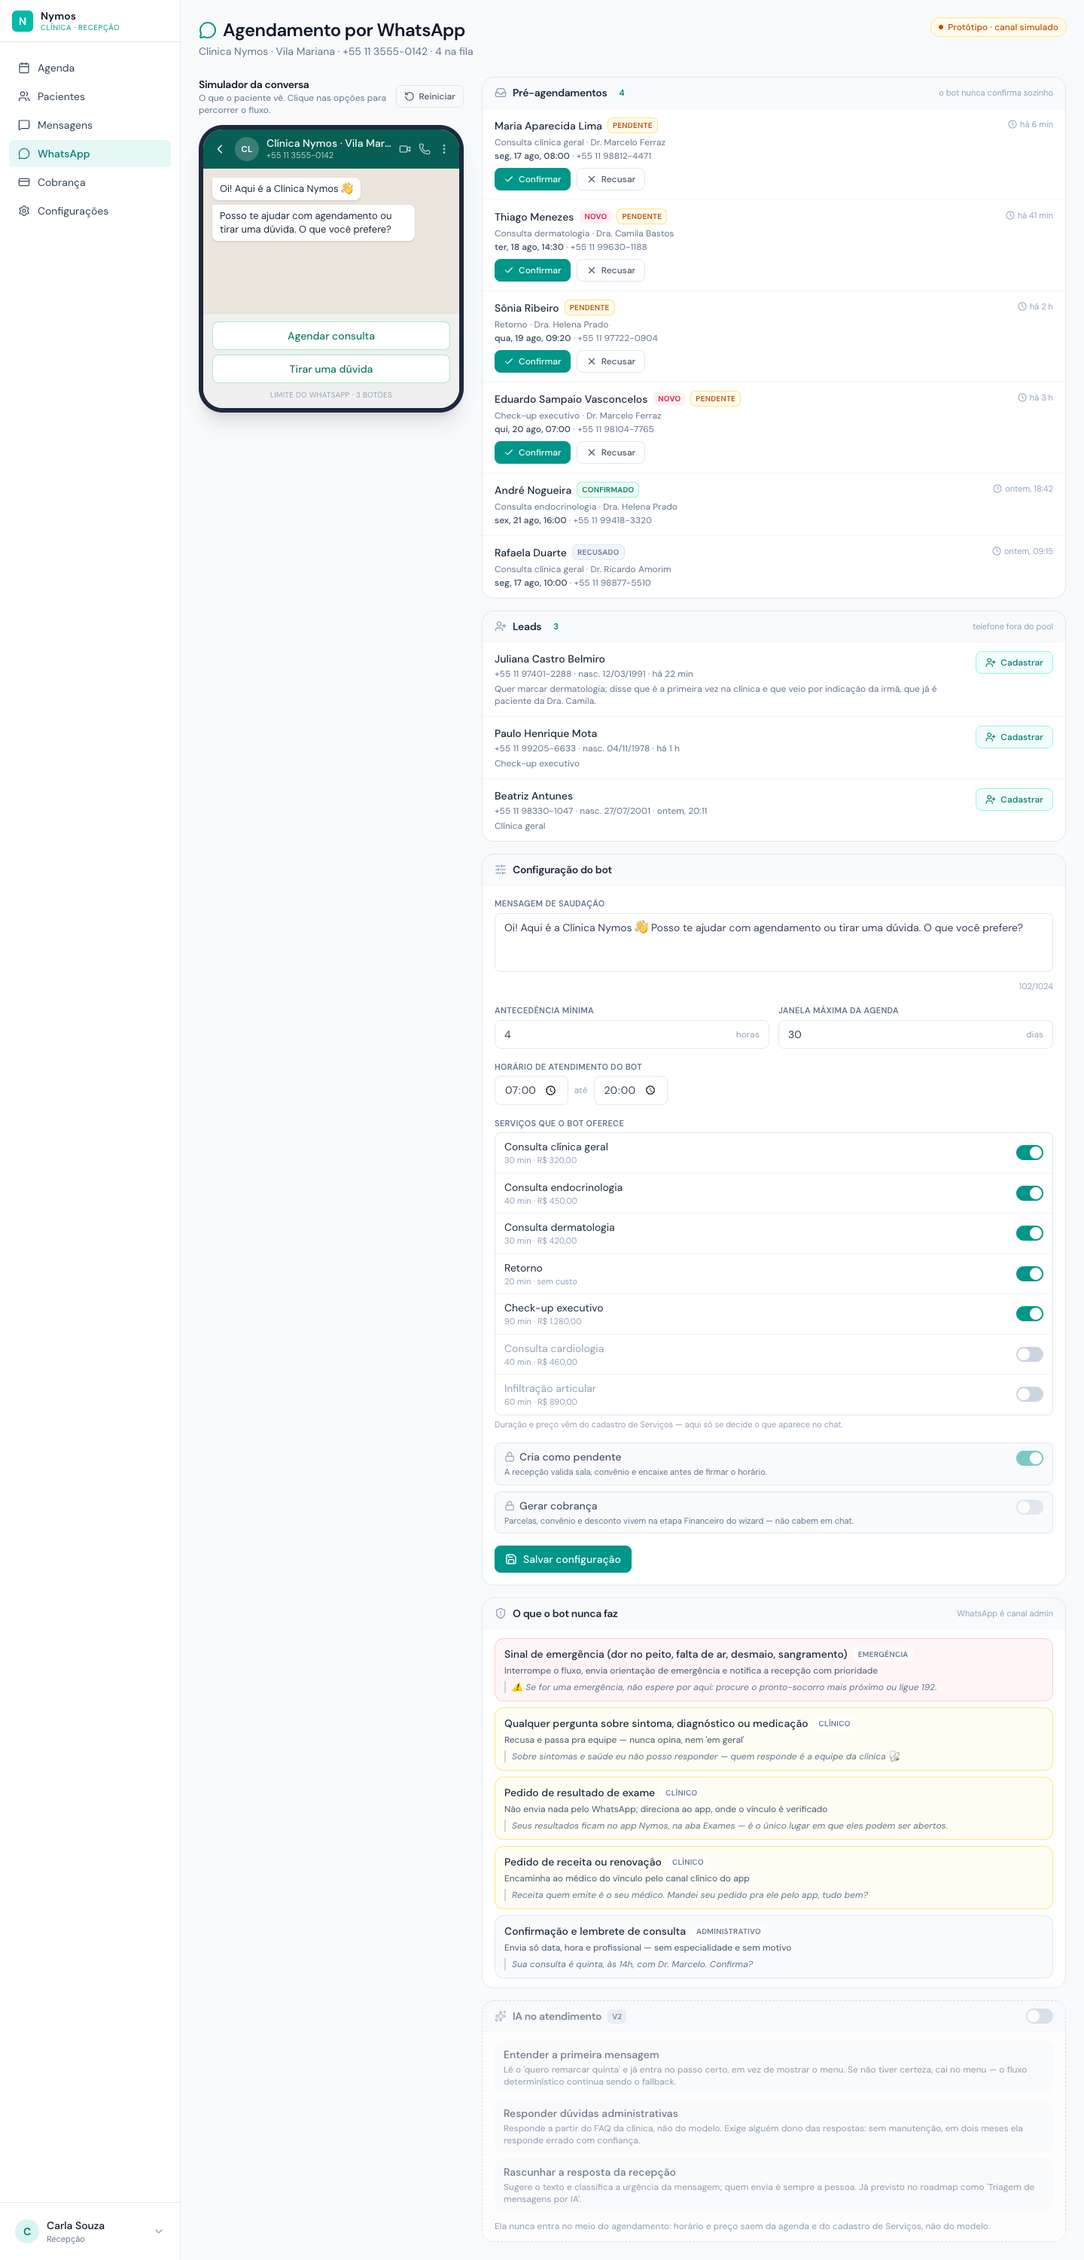
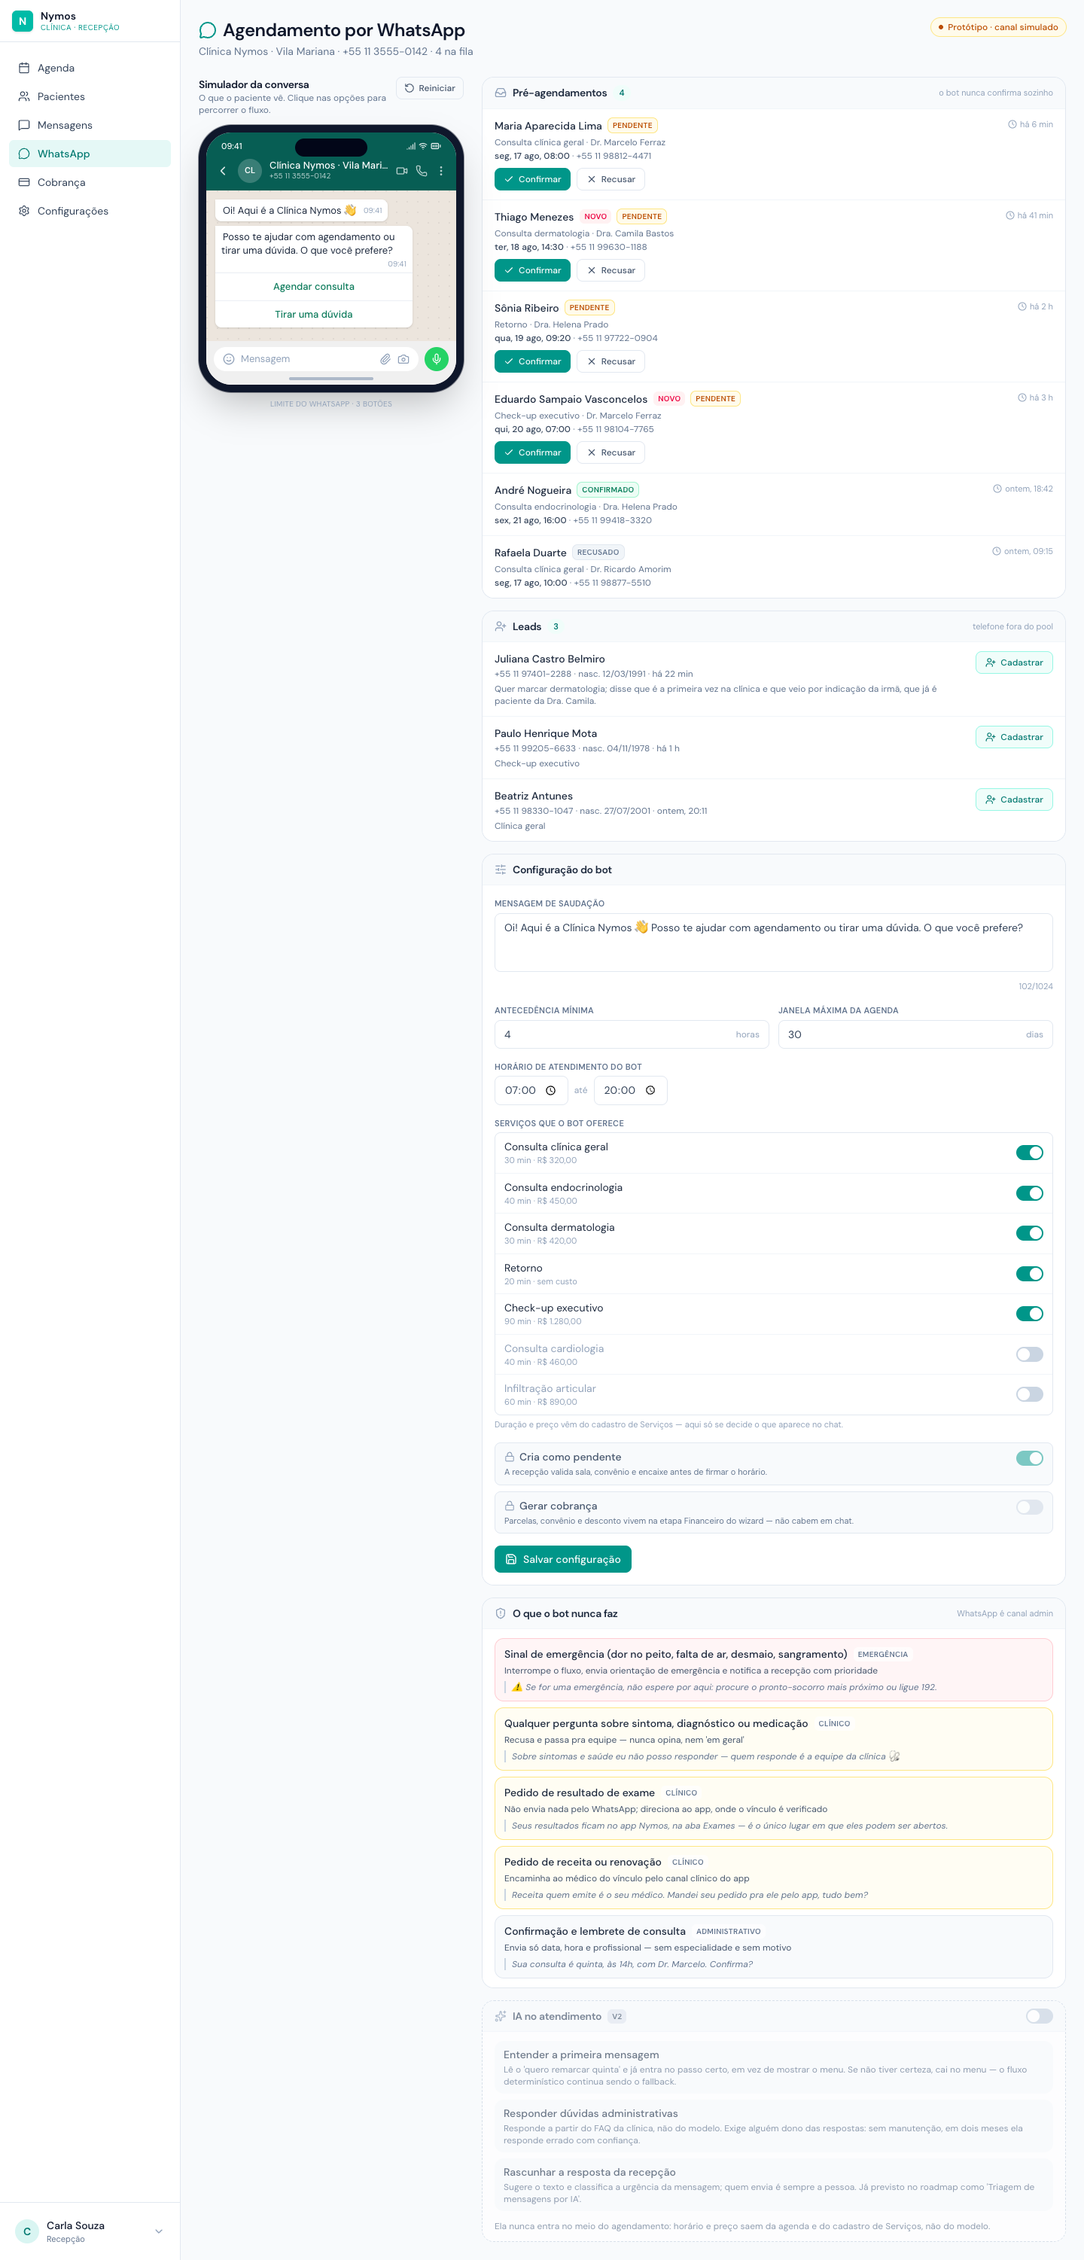
feat(clinic/whatsapp): moldura de celular de verdade e opções coladas na mensagem
O simulador parecia um mockup de chat, não um WhatsApp. Agora tem status bar do
sistema, ilha dinâmica, papel de parede pontilhado, barra de digitar (inerte de
propósito — quem responde ali são os botões) e home indicator.

**As opções deixam de flutuar e passam a ser parte da mensagem.** No WhatsApp o
botão de resposta vem colado embaixo da bolha, com divisória fina e a mesma
largura — não solto no rodapé da conversa. É a diferença entre "tem uns botões na
tela" e "o bot mandou uma mensagem interativa", que é justamente o que a spec
descreve. Bolha e bloco compartilham `w-[85%]` para casarem a borda.

O piso do corpo do chat cai de 12rem para 8rem: com duas bolhas no primeiro passo
sobravam **84px** de espaço morto, e é esse estado que vai para o screenshot.
Agora sobram 6px (medido no DOM, não no olho).

Horário nas bolhas e ✓✓ azul. O ✓✓ vai **só** no que o paciente envia — o que
chega do bot é mensagem recebida e não tem marca de entrega; eu tinha posto nos
dois. A hora vem da posição na conversa (`horaDaBolha`), começando em 09:41, e não
de `new Date()`: com relógio real cada recaptura geraria um screenshot diferente.

A nota "limite do WhatsApp · 3 botões" sai de dentro do aparelho e vira legenda
embaixo — é anotação do Design OS, não chrome do produto. Pelo mesmo motivo o
passo final não mostra mais "Conversa encerrada · reiniciar" dentro da tela: a
conversa só termina, e Reiniciar é controle da ferramenta, no topo.
[…]

Changed region(s): [[0.1875, 0.031, 0.4375, 0.1859]]

diff --git a/src/sections-clinic/agendamento-whatsapp/components/ChatSimulador.tsx b/src/sections-clinic/agendamento-whatsapp/components/ChatSimulador.tsx
@@ -1,5 +1,20 @@
 import { useEffect, useRef, useState } from 'react'
-import { ChevronLeft, List, MoreVertical, Phone, RotateCcw, Video } from 'lucide-react'
+import {
+  BatteryFull,
+  Camera,
+  CheckCheck,
+  ChevronLeft,
+  List,
+  Mic,
+  MoreVertical,
+  Paperclip,
+  Phone,
+  RotateCcw,
+  Signal,
+  Smile,
+  Video,
+  Wifi,
+} from 'lucide-react'
 import type { OpcaoPasso, Passo } from '@/../product-clinic/sections/agendamento-whatsapp/types'
 import { type Bolha, fragmentosNegrito } from './helpers'
 
@@ -20,13 +35,17 @@ export function ChatSimulador({ clinica, telefone, bolhas, passo, onEscolher, on
   const listaAberta = abertaEm !== null && abertaEm === passo?.id
   const fimRef = useRef<HTMLDivElement>(null)
 
+  // Passo final não tem menu: a conversa simplesmente termina, como no WhatsApp. Reiniciar é
+  // controle do Design OS e vive fora do aparelho.
+  const temMenu = !!passo && passo.tipo !== 'final' && passo.opcoes.length > 0
+
   useEffect(() => {
     fimRef.current?.scrollIntoView({ behavior: 'smooth', block: 'end' })
   }, [passo?.id, bolhas.length])
 
   return (
     <div className="lg:sticky lg:top-6">
-      <div className="mb-3 flex items-center justify-between gap-2">
+      <div className="mb-3 flex items-start justify-between gap-2">
         <div className="min-w-0">
           <h2 className="text-sm font-semibold text-slate-900 dark:text-slate-100">Simulador da conversa</h2>
           <p className="text-xs text-slate-500 dark:text-slate-400">
@@ -41,111 +60,158 @@ export function ChatSimulador({ clinica, telefone, bolhas, passo, onEscolher, on
         </button>
       </div>
 
-      {/* Moldura do celular */}
-      <div className="mx-auto w-full max-w-sm overflow-hidden rounded-[2rem] border-[6px] border-slate-800 bg-[#ece5dd] shadow-xl dark:border-slate-700 dark:bg-[#0b141a]">
-        {/* Header do WhatsApp — único lugar em que o verde aparece */}
-        <div className="flex items-center gap-2.5 bg-[#075e54] px-3 py-2.5 text-white">
-          <ChevronLeft className="h-5 w-5 shrink-0 opacity-80" />
-          <div className="flex h-8 w-8 shrink-0 items-center justify-center rounded-full bg-white/20 text-xs font-semibold">
-            {clinica.slice(0, 2).toUpperCase()}
-          </div>
-          <div className="min-w-0 flex-1">
-            <p className="truncate text-sm font-medium leading-tight">{clinica}</p>
-            <p className="truncate text-[11px] leading-tight text-white/70">{telefone}</p>
-          </div>
-          <Video className="h-4 w-4 shrink-0 opacity-70" />
-          <Phone className="h-4 w-4 shrink-0 opacity-70" />
-          <MoreVertical className="h-4 w-4 shrink-0 opacity-70" />
-        </div>
+      {/* Aparelho: bezel escuro + tela arredondada por dentro */}
+      <div className="mx-auto w-full max-w-[22rem] rounded-[2.75rem] bg-slate-900 p-2.5 shadow-2xl ring-1 ring-slate-950/40 dark:bg-slate-950 dark:ring-white/10">
+        <div className="relative overflow-hidden rounded-[2.1rem] bg-[#ece5dd] dark:bg-[#0b141a]">
+          {/* Ilha dinâmica */}
+          <div className="pointer-events-none absolute left-1/2 top-2 z-20 h-6 w-24 -translate-x-1/2 rounded-full bg-slate-950" />
 
-        {/* Corpo da conversa */}
-        <div className="flex max-h-[26rem] min-h-[12rem] flex-col gap-1.5 overflow-y-auto px-3 py-3">
-          {bolhas.map((b) => (
-            <BolhaChat key={b.id} bolha={b} />
-          ))}
-          <div ref={fimRef} />
-        </div>
+          {/* Status bar do sistema */}
+          <div className="flex items-center justify-between bg-[#075e54] px-5 pb-1 pt-2.5 text-[11px] font-medium text-white">
+            <span className="tabular-nums">09:41</span>
+            <span className="flex items-center gap-1">
+              <Signal className="h-3 w-3" />
+              <Wifi className="h-3 w-3" />
+              <BatteryFull className="h-3.5 w-3.5" />
+            </span>
+          </div>
 
-        {/* Menu do passo */}
-        <div className="border-t border-black/5 bg-[#f0f0f0] px-3 py-2.5 dark:border-white/5 dark:bg-[#1f2c34]">
-          {!passo || passo.tipo === 'final' ? (
-            <button
-              onClick={onReiniciar}
-              className="w-full rounded-lg border border-slate-300 bg-white py-2 text-sm font-medium text-slate-600 transition-colors hover:bg-slate-50 dark:border-slate-600 dark:bg-slate-800 dark:text-slate-300 dark:hover:bg-slate-700"
-            >
-              Conversa encerrada · reiniciar
-            </button>
-          ) : passo.tipo === 'botoes' ? (
-            <div className="flex flex-col gap-1.5">
-              {passo.opcoes.map((o) => (
-                <button
-                  key={o.id}
-                  onClick={() => onEscolher(o)}
-                  className="w-full rounded-lg border border-[#25d366]/40 bg-white py-2 text-sm font-medium text-[#0b7a5a] transition-colors hover:bg-[#25d366]/10 dark:border-[#25d366]/30 dark:bg-[#2a3942] dark:text-[#7ee2b8] dark:hover:bg-[#25d366]/15"
-                >
-                  {o.rotulo}
-                </button>
+          {/* Header da conversa */}
+          <div className="flex items-center gap-2.5 bg-[#075e54] px-3 pb-2.5 pt-1 text-white">
+            <ChevronLeft className="h-5 w-5 shrink-0 opacity-80" />
+            <div className="flex h-8 w-8 shrink-0 items-center justify-center rounded-full bg-white/20 text-[11px] font-semibold">
+              {clinica.slice(0, 2).toUpperCase()}
+            </div>
+            <div className="min-w-0 flex-1">
+              <p className="truncate text-[13px] font-medium leading-tight">{clinica}</p>
+              <p className="truncate text-[10px] leading-tight text-white/70">{telefone}</p>
+            </div>
+            <Video className="h-4 w-4 shrink-0 opacity-70" />
+            <Phone className="h-4 w-4 shrink-0 opacity-70" />
+            <MoreVertical className="h-4 w-4 shrink-0 opacity-70" />
+          </div>
+
+          {/* Conversa — o papel de parede pontilhado é o do WhatsApp, bem discreto */}
+          <div className="bg-[radial-gradient(circle_at_1px_1px,rgba(0,0,0,0.05)_1px,transparent_0)] [background-size:14px_14px] dark:bg-[radial-gradient(circle_at_1px_1px,rgba(255,255,255,0.04)_1px,transparent_0)]">
+            <div className="flex max-h-[26rem] min-h-[8rem] flex-col gap-1.5 overflow-y-auto px-3 py-3">
+              {bolhas.map((b, i) => (
+                <BolhaChat key={b.id} bolha={b} colada={ehUltimaDoBot(bolhas, i) && temMenu} />
               ))}
-            </div>
-          ) : (
-            <div>
-              <button
-                onClick={() => setAbertaEm(listaAberta ? null : (passo.id ?? null))}
-                className="flex w-full items-center justify-center gap-2 rounded-lg border border-[#25d366]/40 bg-white py-2 text-sm font-medium text-[#0b7a5a] transition-colors hover:bg-[#25d366]/10 dark:border-[#25d366]/30 dark:bg-[#2a3942] dark:text-[#7ee2b8] dark:hover:bg-[#25d366]/15"
-              >
-                <List className="h-4 w-4" /> {passo.titulo ?? 'Ver opções'}
-              </button>
-              {listaAberta && (
-                <ul className="mt-1.5 max-h-56 overflow-y-auto rounded-lg border border-slate-200 bg-white dark:border-slate-700 dark:bg-[#2a3942]">
-                  {passo.opcoes.map((o) => (
-                    <li key={o.id} className="border-b border-slate-100 last:border-0 dark:border-white/5">
-                      <button
-                        onClick={() => onEscolher(o)}
-                        className="w-full px-3 py-2 text-left transition-colors hover:bg-slate-50 dark:hover:bg-white/5"
-                      >
-                        <p className="text-sm text-slate-800 dark:text-slate-100">{o.rotulo}</p>
-                        {o.descricao && (
-                          <p className="mt-0.5 text-xs text-slate-500 dark:text-slate-400">{o.descricao}</p>
-                        )}
-                      </button>
-                    </li>
-                  ))}
-                </ul>
-              )}
-            </div>
-          )}
 
-          {passo?.limite && (
-            <p className="mt-2 text-center text-[10px] uppercase tracking-wide text-slate-400 dark:text-slate-500">
-              limite do WhatsApp · {passo.limite}
-            </p>
-          )}
+              {/* As opções são parte da última mensagem do bot — no WhatsApp elas vêm coladas
+                  embaixo da bolha, com divisória fina, não soltas no rodapé da conversa. */}
+              {temMenu && passo && (
+                <div className="-mt-1.5 flex justify-start">
+                  <div className="w-[85%] overflow-hidden rounded-b-lg bg-white shadow-sm dark:bg-[#202c33]">
+                    {passo.tipo === 'botoes' ? (
+                      passo.opcoes.map((o) => (
+                        <button
+                          key={o.id}
+                          onClick={() => onEscolher(o)}
+                          className="block w-full border-t border-slate-200/70 px-4 py-2 text-center text-[13px] font-medium text-[#0b7a5a] transition-colors hover:bg-[#25d366]/10 dark:border-white/10 dark:text-[#7ee2b8] dark:hover:bg-white/5"
+                        >
+                          {o.rotulo}
+                        </button>
+                      ))
+                    ) : (
+                      <>
+                        <button
+                          onClick={() => setAbertaEm(listaAberta ? null : (passo.id ?? null))}
+                          className="flex w-full items-center justify-center gap-2 border-t border-slate-200/70 px-4 py-2 text-[13px] font-medium text-[#0b7a5a] transition-colors hover:bg-[#25d366]/10 dark:border-white/10 dark:text-[#7ee2b8] dark:hover:bg-white/5"
+                        >
+                          <List className="h-4 w-4" /> {passo.titulo ?? 'Ver opções'}
+                        </button>
+                        {listaAberta && (
+                          <ul className="max-h-56 overflow-y-auto border-t border-slate-200/70 dark:border-white/10">
+                            {passo.opcoes.map((o) => (
+                              <li key={o.id} className="border-b border-slate-100 last:border-0 dark:border-white/5">
+                                <button
+                                  onClick={() => onEscolher(o)}
+                                  className="w-full px-3 py-2 text-left transition-colors hover:bg-slate-50 dark:hover:bg-white/5"
+                                >
+                                  <p className="text-[13px] text-slate-800 dark:text-slate-100">{o.rotulo}</p>
+                                  {o.descricao && (
+                                    <p className="mt-0.5 text-[11px] text-slate-500 dark:text-slate-400">
+                                      {o.descricao}
+                                    </p>
+                                  )}
+                                </button>
+                              </li>
+                            ))}
+                          </ul>
+                        )}
+                      </>
+                    )}
+                  </div>
+                </div>
+              )}
+
+              <div ref={fimRef} />
+            </div>
+          </div>
+
+          {/* Barra de digitar — inerte de propósito: quem responde aqui são os botões */}
+          <div className="flex items-center gap-2 bg-[#f0f0f0] px-2.5 py-2 dark:bg-[#1f2c34]">
+            <div className="flex min-w-0 flex-1 items-center gap-2 rounded-full bg-white px-3 py-1.5 dark:bg-[#2a3942]">
+              <Smile className="h-4 w-4 shrink-0 text-slate-400" />
+              <span className="min-w-0 flex-1 truncate text-[13px] text-slate-400">Mensagem</span>
+              <Paperclip className="h-4 w-4 shrink-0 text-slate-400" />
+              <Camera className="h-4 w-4 shrink-0 text-slate-400" />
+            </div>
+            <span className="flex h-8 w-8 shrink-0 items-center justify-center rounded-full bg-[#25d366]">
+              <Mic className="h-4 w-4 text-white" />
+            </span>
+          </div>
+
+          {/* Home indicator */}
+          <div className="flex justify-center bg-[#f0f0f0] pb-1.5 dark:bg-[#1f2c34]">
+            <span className="h-1 w-28 rounded-full bg-slate-400/70 dark:bg-white/30" />
+          </div>
         </div>
       </div>
+
+      {/* Anotação do Design OS — fica FORA do aparelho, porque não é parte do produto */}
+      {passo?.limite && (
+        <p className="mt-2 text-center text-[10px] uppercase tracking-wide text-slate-400 dark:text-slate-500">
+          limite do WhatsApp · {passo.limite}
+        </p>
+      )}
     </div>
   )
 }
 
-function BolhaChat({ bolha }: { bolha: Bolha }) {
+/** A última bolha do bot é a que recebe o menu colado embaixo. */
+function ehUltimaDoBot(bolhas: Bolha[], indice: number): boolean {
+  return bolhas[indice].autor === 'bot' && indice === bolhas.length - 1
+}
+
+function BolhaChat({ bolha, colada = false }: { bolha: Bolha; colada?: boolean }) {
   const doBot = bolha.autor === 'bot'
   return (
     <div className={`flex ${doBot ? 'justify-start' : 'justify-end'}`}>
       <div
-        className={`max-w-[85%] rounded-lg px-2.5 py-1.5 text-[13px] leading-snug shadow-sm ${
+        className={`max-w-[85%] rounded-lg px-2 py-1.5 text-[13px] leading-snug shadow-sm ${
           doBot
             ? 'rounded-tl-none bg-white text-slate-800 dark:bg-[#202c33] dark:text-slate-100'
             : 'rounded-tr-none bg-[#d9fdd3] text-slate-800 dark:bg-[#005c4b] dark:text-slate-50'
-        }`}
+        } ${colada ? 'w-[85%] rounded-b-none' : ''}`}
       >
-        {fragmentosNegrito(bolha.texto).map((frag, i) =>
-          i % 2 === 1 ? (
-            <strong key={i} className="font-semibold">
-              {frag}
-            </strong>
-          ) : (
-            <span key={i}>{frag}</span>
-          ),
-        )}
+        <span className="px-0.5">
+          {fragmentosNegrito(bolha.texto).map((frag, i) =>
+            i % 2 === 1 ? (
+              <strong key={i} className="font-semibold">
+                {frag}
+              </strong>
+            ) : (
+              <span key={i}>{frag}</span>
+            ),
+          )}
+        </span>
+        {/* O ✓✓ é só do que o paciente envia; o que chega do bot não tem marca de entrega. */}
+        <span className="float-right ml-2 mt-1 flex items-center gap-0.5 text-[10px] leading-none text-slate-400 dark:text-slate-400">
+          {bolha.hora}
+          {!doBot && <CheckCheck className="h-3 w-3 text-sky-500 dark:text-sky-400" />}
+        </span>
       </div>
     </div>
   )

diff --git a/src/sections-clinic/agendamento-whatsapp/components/helpers.ts b/src/sections-clinic/agendamento-whatsapp/components/helpers.ts
@@ -5,6 +5,19 @@ export interface Bolha {
   id: string
   autor: 'bot' | 'paciente'
   texto: string
+  /** `HH:MM` exibido no rodapé da bolha. */
+  hora: string
+}
+
+/**
+ * Relógio do simulador. Começa em 09:41 e anda 1 minuto a cada duas bolhas — determinístico de
+ * propósito: se viesse de `new Date()`, cada screenshot sairia com um horário diferente.
+ */
+export function horaDaBolha(indice: number): string {
+  const minutos = 9 * 60 + 41 + Math.floor(indice / 2)
+  const hh = String(Math.floor(minutos / 60) % 24).padStart(2, '0')
+  const mm = String(minutos % 60).padStart(2, '0')
+  return `${hh}:${mm}`
 }
 
 export function passoPorId(passos: Passo[], id: string): Passo | undefined {
@@ -15,7 +28,12 @@ export function passoPorId(passos: Passo[], id: string): Passo | undefined {
 export function bolhasIniciais(passos: Passo[], passoInicial: string): Bolha[] {
   const passo = passoPorId(passos, passoInicial)
   if (!passo) return []
-  return passo.bot.map((texto, i) => ({ id: `${passo.id}-b${i}`, autor: 'bot' as const, texto }))
+  return passo.bot.map((texto, i) => ({
+    id: `${passo.id}-b${i}`,
+    autor: 'bot' as const,
+    texto,
+    hora: horaDaBolha(i),
+  }))
 }
 
 /**

diff --git a/src/sections-clinic/agendamento-whatsapp/AgendamentoWhatsapp.tsx b/src/sections-clinic/agendamento-whatsapp/AgendamentoWhatsapp.tsx
@@ -12,6 +12,7 @@ import {
   AgendamentoWhatsappView,
   type Bolha,
   bolhasIniciais,
+  horaDaBolha,
   passoPorId,
   resumoServico,
 } from './components'
@@ -66,11 +67,14 @@ export default function AgendamentoWhatsappPreview() {
     const destino = passoPorId(base.passos, opcao.proximo)
     if (!destino) return
 
-    setBolhas((prev) => [
-      ...prev,
-      { id: `p-${++bolhaSeq}`, autor: 'paciente', texto: opcao.rotulo },
-      ...destino.bot.map((texto) => ({ id: `b-${++bolhaSeq}`, autor: 'bot' as const, texto })),
-    ])
+    setBolhas((prev) => {
+      const novas: Bolha[] = [
+        { id: `p-${++bolhaSeq}`, autor: 'paciente', texto: opcao.rotulo, hora: '' },
+        ...destino.bot.map((texto) => ({ id: `b-${++bolhaSeq}`, autor: 'bot' as const, texto, hora: '' })),
+      ]
+      // A hora sai da posição na conversa, não do relógio — screenshot precisa ser reprodutível.
+      return [...prev, ...novas].map((b, i) => ({ ...b, hora: horaDaBolha(i) }))
+    })
     setPassoId(destino.id)
   }
 

diff --git a/src/sections-clinic/agendamento-whatsapp/components/index.ts b/src/sections-clinic/agendamento-whatsapp/components/index.ts
@@ -5,6 +5,7 @@ export { FilaDoBot } from './FilaDoBot'
 export {
   bolhasIniciais,
   fragmentosNegrito,
+  horaDaBolha,
   moeda,
   passoPorId,
   resumoServico,
